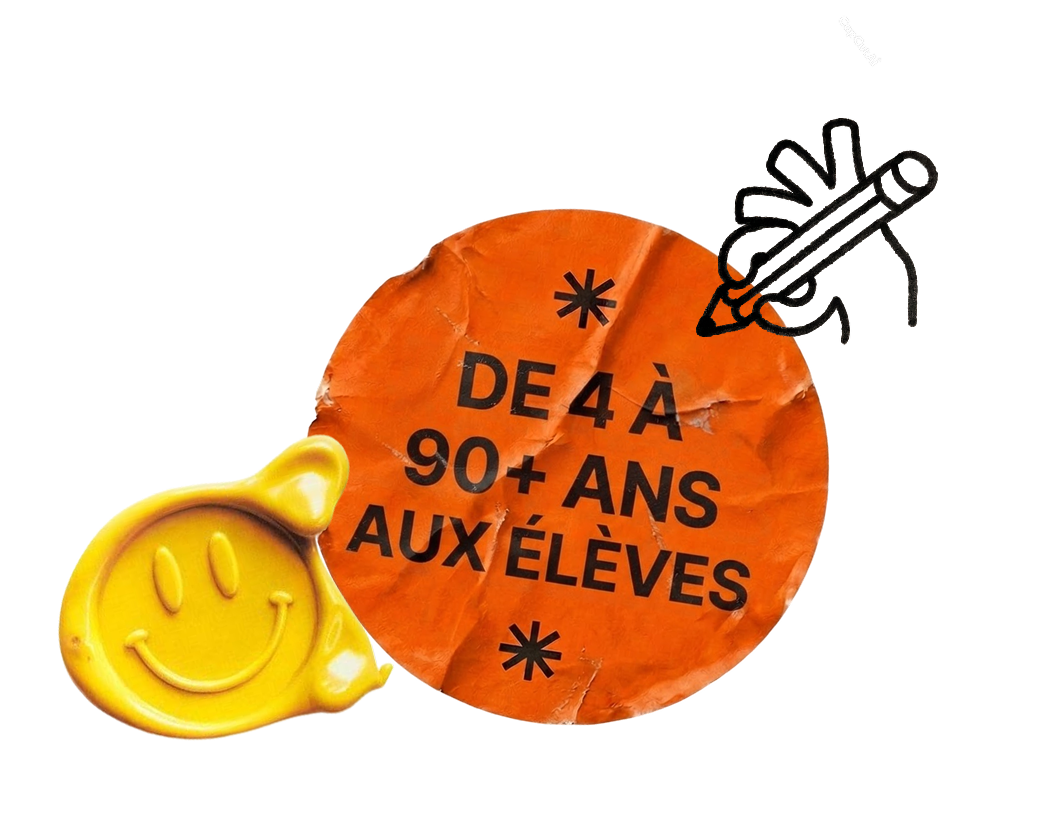
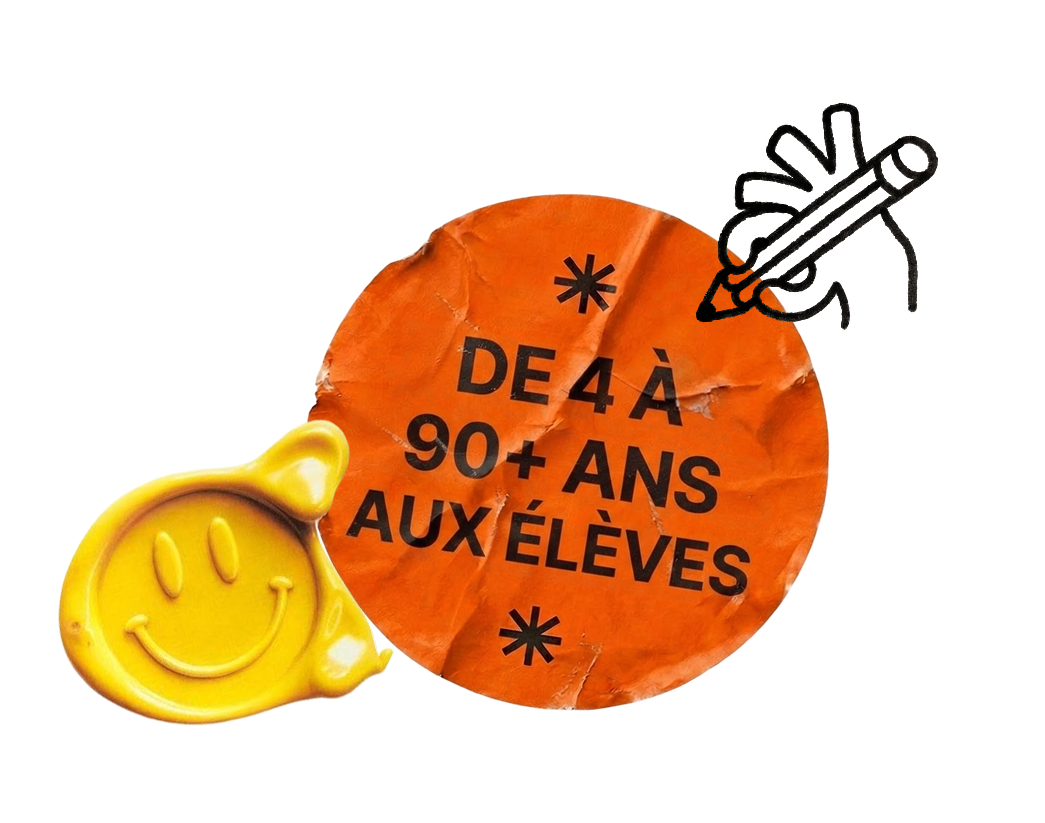
Replace hero age badges with watermark-free artwork
Swap both the Ukrainian and French age badge images for versions without
the CapCut watermark; bump the cache-busting versions.

Changed region(s): [[0.0306, 0.1215, 0.9187, 0.8809], [0.0612, 0.6379, 0.0919, 0.6683]]

diff --git a/site/development/home.html b/site/development/home.html
@@ -1053,7 +1053,7 @@
 
     <!-- age badge, bottom-right -->
     <div data-parallax="0.06" class="hero-prop hero-badge load-prop" style="animation-delay:1s;">
-      <img src="./assets/badge-age-fr.png?v=1" data-i18n-src-fr="./assets/badge-age-fr.png?v=1" data-i18n-src-uk="./assets/badge-age.png?v=4" alt="De 4 à 90+ ans aux élèves" data-i18n-alt-fr="De 4 à 90+ ans aux élèves" data-i18n-alt-uk="Від 4 до 90+ років учням" style="width:100%; height:auto; display:block;">
+      <img src="./assets/badge-age-fr.png?v=2" data-i18n-src-fr="./assets/badge-age-fr.png?v=2" data-i18n-src-uk="./assets/badge-age.png?v=5" alt="De 4 à 90+ ans aux élèves" data-i18n-alt-fr="De 4 à 90+ ans aux élèves" data-i18n-alt-uk="Від 4 до 90+ років учням" style="width:100%; height:auto; display:block;">
     </div>
 
     <!-- giant wordmark -->
